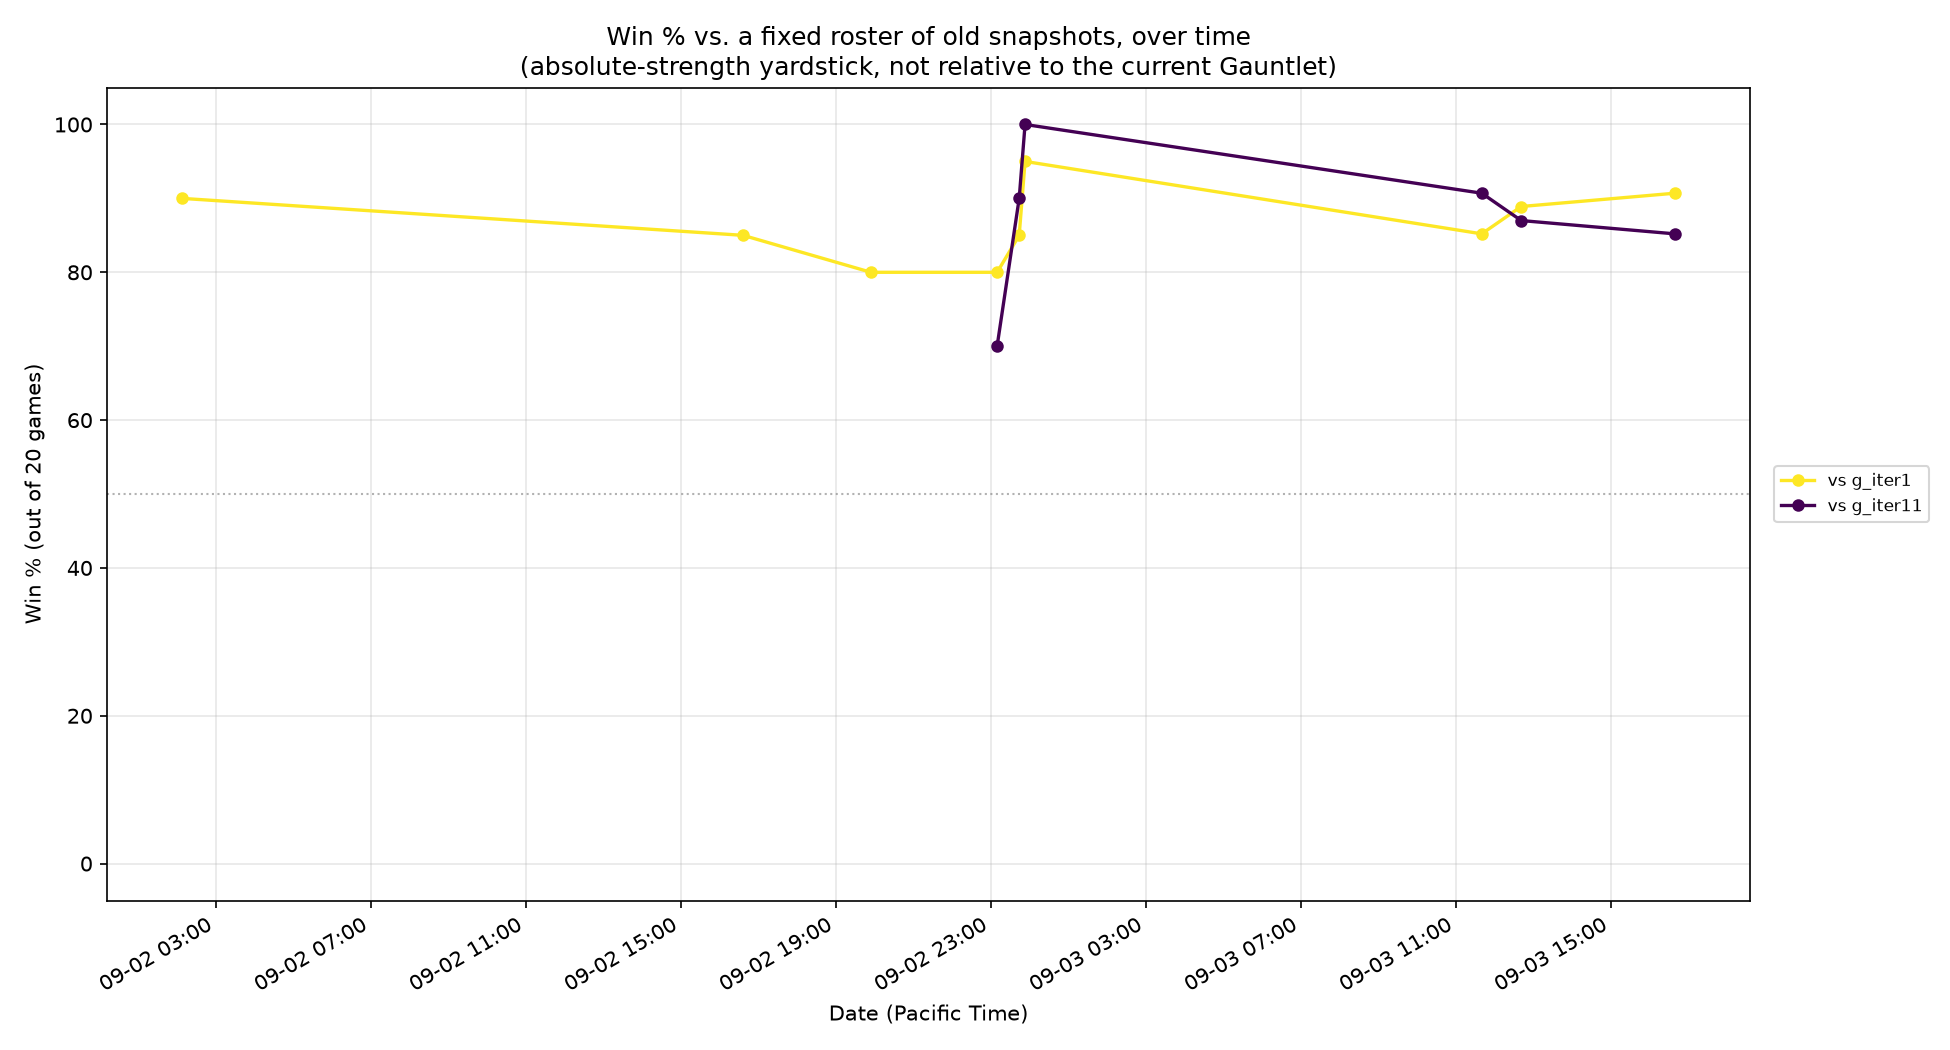
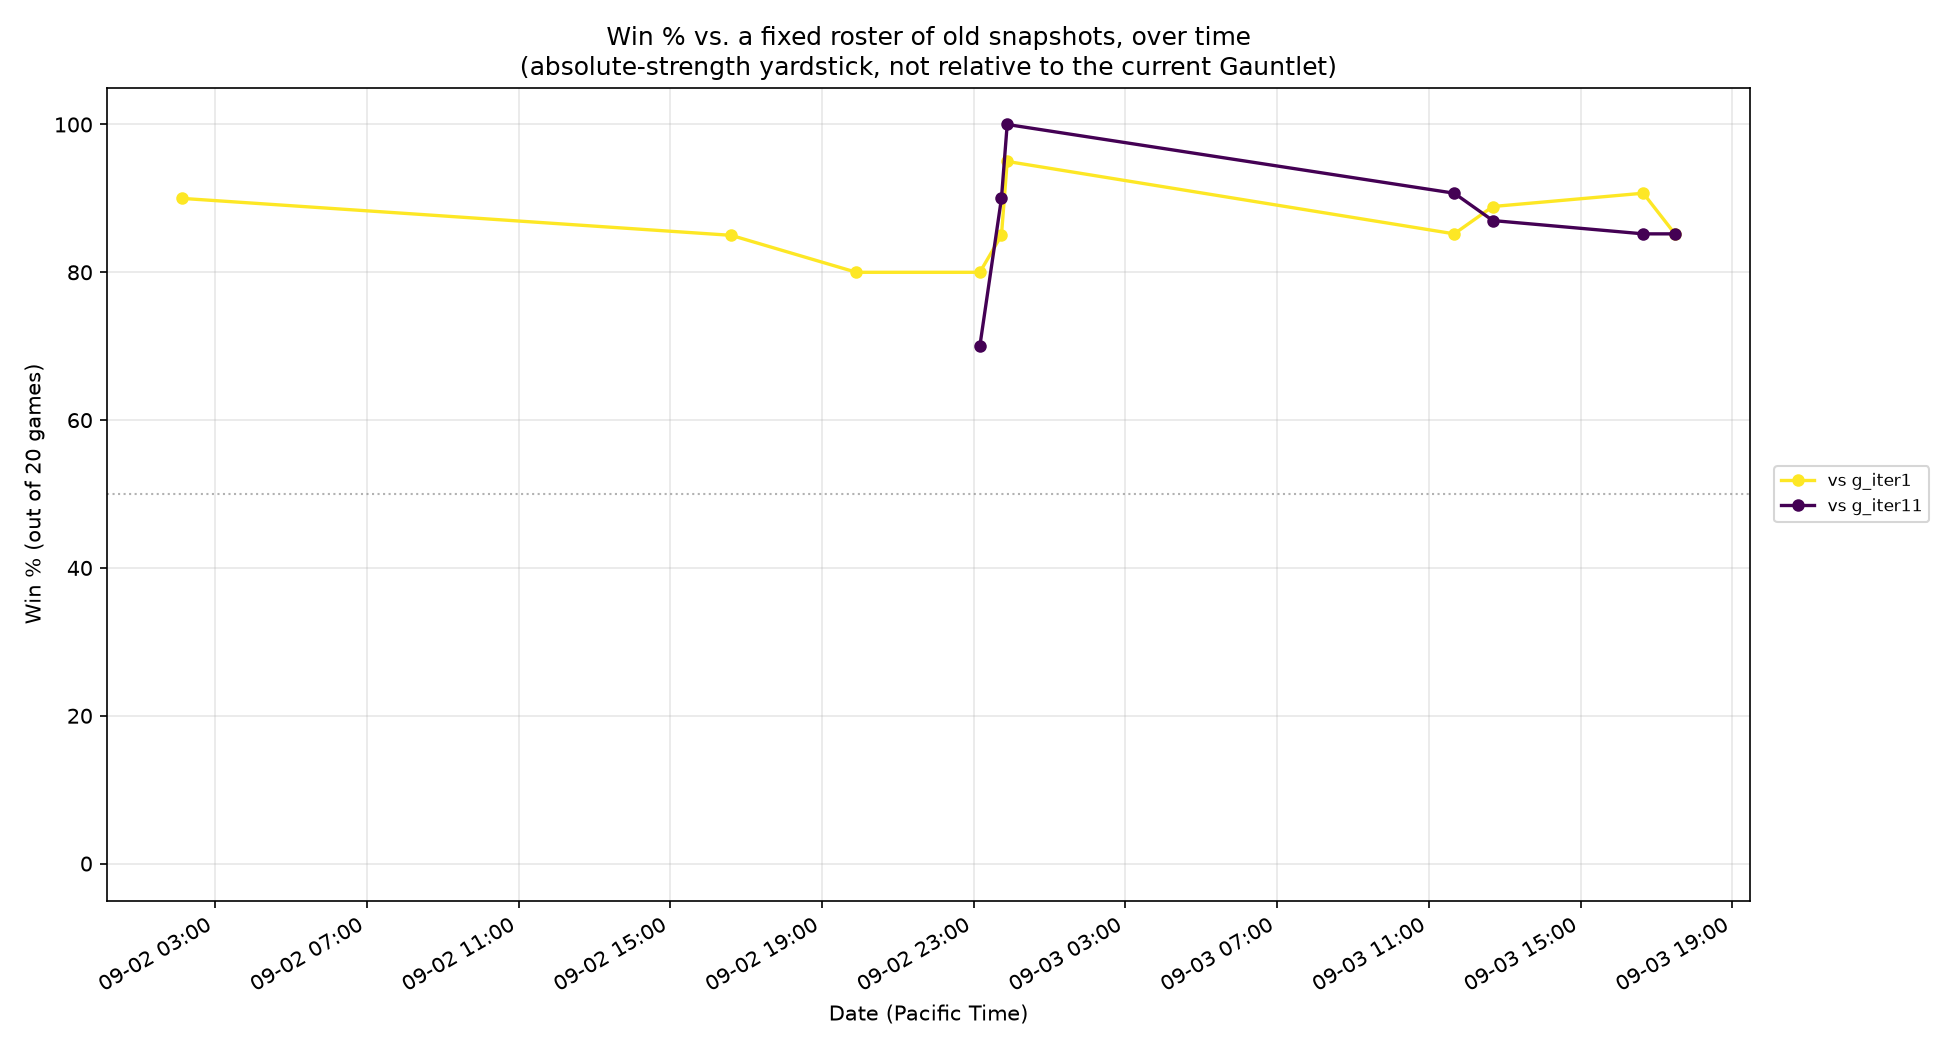
Record Iteration 90 on vs_old_bots (down 3) and regenerate all four charts
vs_old_bots: 92/108 = 85.2%, down from g_iter17's 95/108 = 88.0%. Three games
worse. The accept stands -- both EVEN instruments improved (mirror 53.7%, peers
70.4%) and vs_old_bots is a lopsided ~88% matchup where three games sits inside
the resolution floor -- but it is the one instrument that moved against this
change and is recorded rather than buried. Burying it would repeat the error I
made accepting Iteration 63 on a story instead of the numbers.

Charts regenerated per the corrected four-command routine, including the
cumulative-iterations graph the user asked for: vs_old_bots.png (17 rows),
cumulative_iterations.png (18 accepted, g_iter1..g_iter18), peer_win_spread.png
(57 runs).

Claude-Session: https://claude.ai/code/session_01Sgao6EtbbgQ6mM5ZhH5FGP

diff --git a/TRAINING_LOG.md b/TRAINING_LOG.md
@@ -6150,3 +6150,31 @@ tried to detect an emergency and measured inert.
 
 Peers have moved 60.2% → 70.4% across the three. Every one is *relieve a
 degenerate state*; none adds a tactic.
+
+### Iteration 90 on vs_old_bots — down 3 games, and worth stating plainly
+
+    g_iter18: 46/54 = 85.2% vs g_iter1, 46/54 = 85.2% vs g_iter11
+    overall 92/108 = 85.2%   (g_iter17 was 95/108 = 88.0%)
+
+Three games worse. The accept stands — the two even instruments both
+improved, and `vs_old_bots` is a lopsided matchup at ~85-88% where three
+games is inside the resolution floor established earlier today. But it is
+the one instrument that moved against this change, and burying that would be
+exactly the error I made accepting Iteration 63 on a story rather than the
+numbers.
+
+For the record, all four instruments on Iteration 90:
+
+| instrument | matchup | baseline | Iteration 90 | weight |
+|---|---|---|---|---|
+| `g_iter17` mirror | **even** | 50% | **53.7%** | primary |
+| peers | **even** | 67.6% | **70.4%** | regression check |
+| `vs_old_bots` | lopsided (~88%) | 95/108 | 92/108 | direction only |
+| benchmarks | lopsided (~3%) | — | not run | direction only |
+
+If the two even instruments had disagreed with each other, this would be a
+near-miss, not an accept.
+
+All four charts regenerated per the corrected routine: `vs_old_bots.png`
+(17 rows), `cumulative_iterations.png` (18 accepted iterations,
+`g_iter1..g_iter18`), `peer_win_spread.png` (57 runs).
